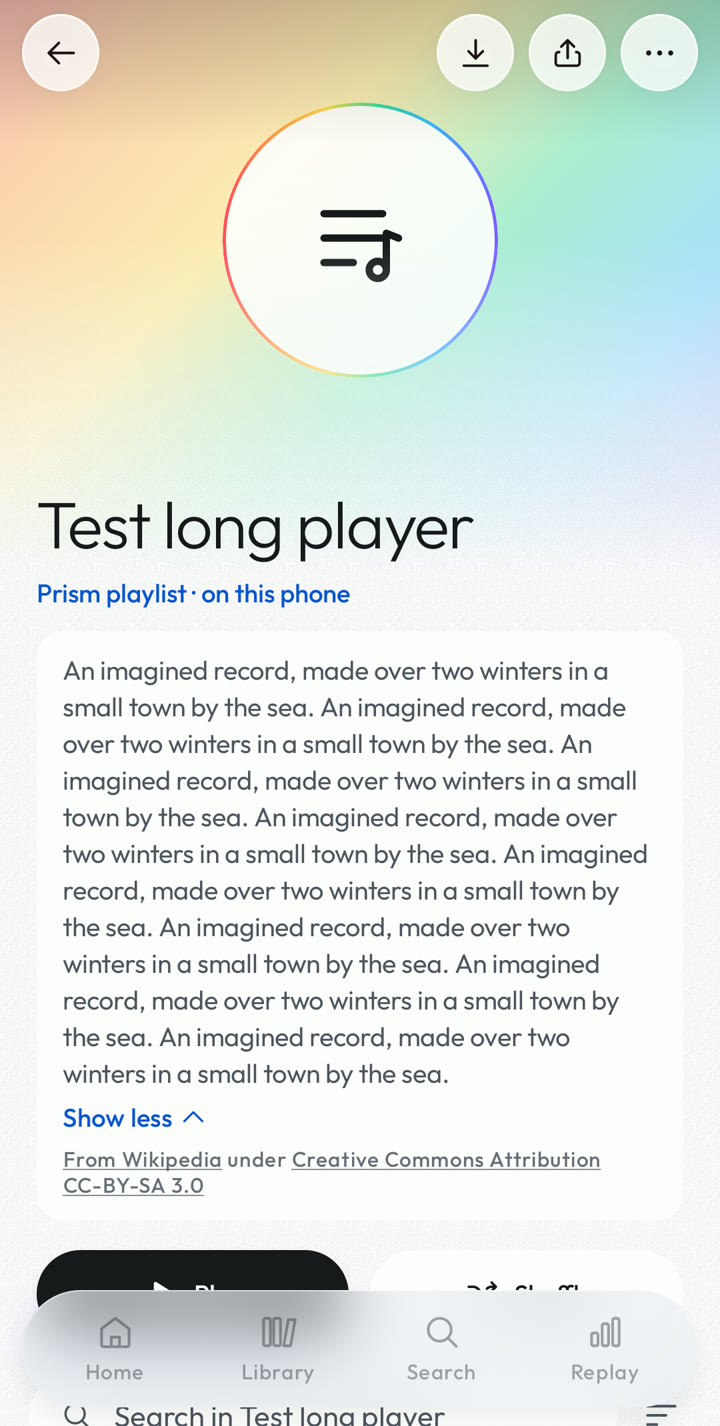
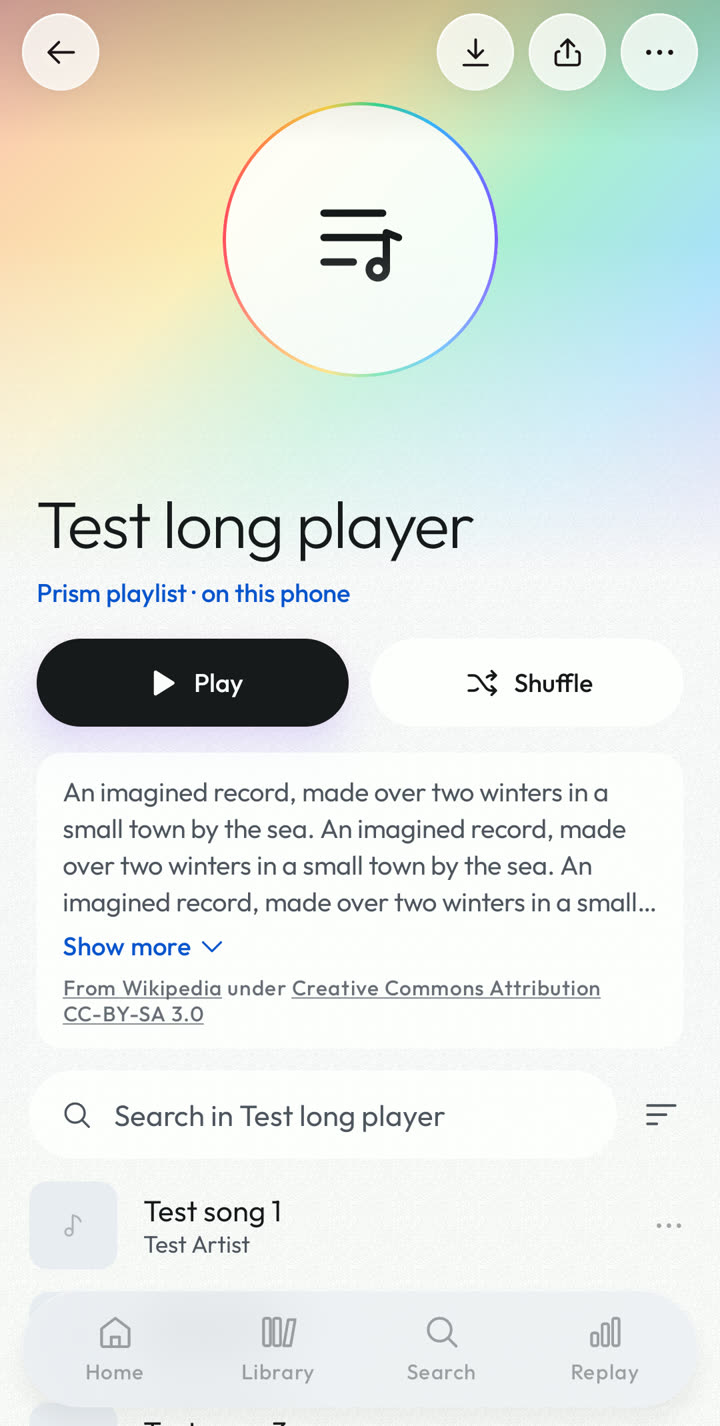
1.8.2.1: Play and Shuffle above an album's description: the taller box pushed Play behind the mini player

diff --git a/app/src/main/java/com/prism/music/ui/screens/CollectionScreen.kt b/app/src/main/java/com/prism/music/ui/screens/CollectionScreen.kt
@@ -693,6 +693,10 @@ private fun CollectionContent(type: CollectionType, live: LiveCollection, initia
                     onShuffle = { c.player.playQueue(playable, 0, source, shuffle = true) },
                 )
             }
+            // Under Play and Shuffle: above them, a long description pushed Play behind the mini player.
+            val about: @Composable () -> Unit = {
+                shown.description?.takeIf { it.isNotBlank() }?.let { AboutBox(it, Modifier.padding(start = 20.dp, end = 20.dp, bottom = 8.dp)) }
+            }
             val sideWidth = (pageWidth * 0.4f).coerceIn(320.dp, 460.dp)
             if (sideBySide) Column(
                 Modifier.width(sideWidth).fillMaxHeight().verticalScroll(rememberScrollState())
@@ -700,6 +704,7 @@ private fun CollectionContent(type: CollectionType, live: LiveCollection, initia
             ) {
                 header()
                 playRow()
+                about()
             }
             LazyColumn(
                 state = listState,
@@ -726,6 +731,7 @@ private fun CollectionContent(type: CollectionType, live: LiveCollection, initia
                     rearrangeSongs(reorder, onDone = { rearranging = false }, onReorder = ::reorderTo)
                     return@LazyColumn
                 }
+                if (!sideBySide) item("about") { about() }
                 if (showSearch || sortable) item(key = "search") {
                     Row(Modifier.fillMaxWidth().padding(start = 16.dp, end = 8.dp, top = 4.dp, bottom = 6.dp), verticalAlignment = Alignment.CenterVertically) {
                         if (showSearch) com.prism.music.ui.components.SearchField(
@@ -1166,7 +1172,6 @@ private fun HeaderDetails(page: CollectionPage, centred: Boolean, privacy: Strin
                 Text(if (saved) tr(R.string.in_your_library) else tr(R.string.add_to_library), style = MaterialTheme.typography.labelLarge, color = scheme.onSurface)
             }
         }
-        page.description?.takeIf { it.isNotBlank() }?.let { AboutBox(it, Modifier.padding(top = 12.dp)) }
     }
 }
 

diff --git a/app/src/androidTest/java/com/prism/music/AlbumBoxAndCardAppTest.kt b/app/src/androidTest/java/com/prism/music/AlbumBoxAndCardAppTest.kt
@@ -99,6 +99,10 @@ class AlbumBoxInPrismTest {
         }
         compose.clickWhenFound(hasText("Test long player") and hasClickAction(), 15_000)
         compose.waitForText("Show more")
+        // Play stays above the box: under it, a long description pushed Play behind the mini player.
+        val play = compose.onAllNodes(hasText("Play") and hasClickAction()).fetchSemanticsNodes().single().boundsInRoot
+        val more = compose.onAllNodes(hasText("Show more", substring = true)).fetchSemanticsNodes().first().boundsInRoot
+        assertTrue("Play at ${play.bottom}, the box's Show more at ${more.top}", play.bottom <= more.top)
         assertTrue("the credit's there", compose.onAllNodes(hasText("From Wikipedia", substring = true)).fetchSemanticsNodes().isNotEmpty())
         assertTrue("its address isn't read out", compose.onAllNodes(hasText("https", substring = true)).fetchSemanticsNodes().isEmpty())
         Fixture.screenshot("album-box-closed")

diff --git a/CHANGELOG.md b/CHANGELOG.md
@@ -35,7 +35,7 @@ What changed in each release. Older releases are described on the [Releases page
 - **Google Takeout's history is recognized in any language** (#375). The file's name changes with your account's language (`historial-de-reproducciones.json` in Spanish), so Prism now goes by what's in it.
 - **Japanese kanji no longer turn into Chinese pinyin in romanized lyrics** (#370). Some sources, KuGou above all, write a Japanese song's kanji in Chinese forms, and a line of only kanji could pass for Chinese. Prism now decides for the whole song and reads them as Japanese.
 - **Replay's summary card no longer cuts its title off** ("TODA" for Today). The title now shrinks until it fits on its line, in every period and language, and so do the story's big words.
-- **An album's description is easier to read.** Left-aligned in its own quiet box, closed to a few lines with Show more, and the Wikipedia and license credit on its own small line with tappable links instead of raw addresses.
+- **An album's description is easier to read.** Left-aligned in its own quiet box under Play and Shuffle, closed to a few lines with Show more, and the Wikipedia and license credit on its own small line with tappable links instead of raw addresses.
 - **Play next on a song already in your queue** moves it up instead of adding a second copy (#368).
 - **The queue lists songs in the order they really play.** A song you added to the queue was shown first, but played after the rest of the list, so Next seemed to skip it (#368).
 - **Crossfade:** Play next, or taking a song out of the queue, just before a blend no longer sends it to the wrong song or cuts it off (#368).
